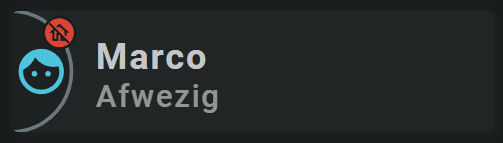
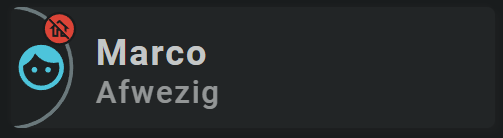
Update Functional Cards and how to create them

diff --git a/docs/design/how-to-create-functional-cards.md b/docs/design/how-to-create-functional-cards.md
@@ -65,17 +65,57 @@ In most cases that means for the card size:
 I made some rough sketches based on the [example 12 card][Swiss Army Knife Example 12]:, but also used some cards I made as the basis to create other variants and cards.
 
 ##:sak-sak-logo: Step 4: Create them
-Look at the examples which functional cards I made:
+Last step is to create the cards you need.
 
-- A slightly modified AirVisual card
-- Four binary cards with alert (variations)
-- A slightly modified Environment card
-- Four power outlet cards (variations again)
-- Two sensor cards without and with history
-- A slightly modified Server Statistics card
-- Last but not least: three switch cards
+As an example, I created a bunch of cards for inspiration and learning.
+
+### Example Functional Cards I made
+
+| Card | Description |
+| ---- | ----------- |
+| [AirVisual Card][functional-card-airvisual1-card] | Two ([\#1][functional-card-airvisual1-card] and [\#2][functional-card-airvisual2-card]) variants for displaying AirVisual data |
+| [Battery Card][functional-card-battery-sensor2-card] | Card showing the battery state, including 24 hour history |
+| [Binary Sensor Card][functional-card-binary-sensor1-card] | Card showing the on/of state of a Binary Sensor |
+| [Binary Sensor Card with Alert][functional-card-binary-sensor-alert1-card] | Same as above, but now four ([\#1][functional-card-binary-sensor-alert1-card], [\#2][functional-card-binary-sensor-alert2-card], [\#3][functional-card-binary-sensor-alert3-card] and [\#4][functional-card-binary-sensor-alert4-card]) variations with an alert icon |
+| [Environment Card][functional-card-environment-card] | Card showing inside environment data |
+| [Header Card][functional-card-header-card] | Card that can display header text above other cards |
+| [Input Boolean Card][functional-card-input-boolean-card] | Card that shows how to display and use the `input_boolean.toggle` service call |
+| [Light Card][functional-card-light-card] | Card that can switch/toggle a Light switch |
+| [Light Card with Slider][functional-card-light-slider-card] | Card that can also control the brightness of a light |
+| [Navigate Card][functional-card-navigate-card] | Navigate to other Lovelace View. Shows how to use the navigate user action |
+| [Person Card][functional-card-person-card] | Card showing the location status of a Person. Also shows the power of some JavaScript |
+| [Power Outlet Card][functional-card-power-outlet1-card] | Four ([\#1][functional-card-power-outlet1-card], [\#2][functional-card-power-outlet2-card], [\#3][functional-card-power-outlet3-card] and [\#4][functional-card-power-outlet4-card]) variations of a card showing both status (on/off) and power usage |
+| [Scene Card][functional-card-scene-card] | Card showing how to call a scene |
+| [Sensor Card][functional-card-sensor1-card] | Two ([\#1][functional-card-sensor1-card] and [\#2][functional-card-sensor2-card]) variations of showing sensor data, without and with 24 hour history |
+| [Server Statistics Card][functional-card-server-statistics-card] | Card showing the main server sensors like CPU, Memory, Disk, etc. |
+| [Switch Card][functional-card-switch1-card] | Three ([\#1][functional-card-switch1-card], [\#2][functional-card-switch2-card] and [\#3][functional-card-switch3-card]) variations of a card controlling a switch |
 
 !!! info "The YAML definition for all cards is included in the examples, so you can copy/use them and learn from them!"
+
+### Overview of Tools used
+
+Most tools are used in the example functional cards. Only 4 are not used.
+
+| Used?            | Tool                                                  | Type        | Description |
+|----------------- | ----------------------------------------------------- | ----------- | ----------- |
+| :material-check: | badge                                                 | basic       | A badge. Not yet Documented! |
+| :material-check: | [circle][swiss-army-knife-basic-tool-circle]          | basic       | A circle |
+| :material-close: | [ellipse][swiss-army-knife-basic-tool-ellipse]        | basic       | An ellipse |
+| :material-check: | [line][swiss-army-knife-basic-tool-line]              | basic       | A vertical, horizontal or oblique line |
+| :material-check: | [rectangle][swiss-army-knife-basic-tool-rectangle]    | basic       | A rectangle with and w/o rounded corners |
+| :material-check: | [rectex][swiss-army-knife-basic-tool-rectex]          | basic       | A more advanced rectangle with independent rounded corners |
+| :material-close: | [regpoly][swiss-army-knife-basic-tool-regpoly]        | basic       | A regular poly using the Schläfli symbol math |
+| :material-check: | [text][swiss-army-knife-basic-tool-text]              | basic       | A text display |
+| :material-close: | [horseshoe][swiss-army-knife-advanced-tool-horseshoe] | advanced    | TBD |
+| :material-check: | [segarc][swiss-army-knife-advanced-tool-segarc]       | advanced    | A segmented arc: shows progress data in an arc |
+| :material-check: | [slider][swiss-army-knife-advanced-tool-slider]       | advanced    | Slider input tool. Used for brightness for example |
+| :material-check: | [switch][swiss-army-knife-advanced-tool-switch]       | advanced    | A basic on/off switch |
+| :material-check: | [usersvg][swiss-army-knife-advanced-tool-usersvg]     | advanced    | For fetching user defined, external SVG files |
+| :material-close: | [area][swiss-army-knife-ha-tool-area]                 | HA specific | Represents an Entity Area |
+| :material-check: | [icon][swiss-army-knife-ha-tool-icon]                 | HA specific | Represents an Entity Icon |
+| :material-check: | [name][swiss-army-knife-ha-tool-name]                 | HA specific | Represents an Entity Name |
+| :material-check: | [state][swiss-army-knife-ha-tool-state]               | HA specific | Represents an Entity State & Unit of Measurement |
+| :material-check: | [bar][swiss-army-knife-ha-tool-bar]                   | HA specific | Represents an simple state history (horizontal or vertical bars)|
 
 <!-- Image references -->
 
@@ -88,6 +128,51 @@ Look at the examples which functional cards I made:
 [Swiss Army Knife Tutorial 02]: ../tutorials/10-step-tutorial-02-intro.md
 [Swiss Army Knife Example 12]: ../examples/example-12.md
 [Swiss Army Knife CSS Classes]: ../basics/styling/classes.md
+
+[swiss-army-knife-basic-tool-circle]: ../tools/circle-tool.md "Swiss Army Knife - Circle Tool"
+[swiss-army-knife-basic-tool-ellipse]: ../tools/ellipse-tool.md "Swiss Army Knife - Ellipse Tool"
+[swiss-army-knife-basic-tool-line]: ../tools/line-tool.md "Swiss Army Knife - Line Tool"
+[swiss-army-knife-basic-tool-rectangle]: ../tools/rectangle-tool.md "Swiss Army Knife - Rectangle Tool"
+[swiss-army-knife-basic-tool-rectex]: ../tools/rectangle-ex-tool.md "Swiss Army Knife - Rectangle Ex Tool"
+[swiss-army-knife-basic-tool-regpoly]: ../tools/regular-poly-tool.md "Swiss Army Knife - Regular Poly Tool"
+[swiss-army-knife-basic-tool-text]: ../tools/text-tool.md "Swiss Army Knife - Text Tool"
+[swiss-army-knife-advanced-tool-horseshoe]: ../tools/horseshoe-tool.md "Swiss Army Knife - Horse shoe Tool"
+[swiss-army-knife-advanced-tool-segarc]: ../tools/segarc-tool.md "Swiss Army Knife - Segmented Arc Tool"
+[swiss-army-knife-advanced-tool-slider]: ../tools/slider-tool.md "Swiss Army Knife - Slider Tool"
+[swiss-army-knife-advanced-tool-switch]: ../tools/switch-tool.md "Swiss Army Knife - Switch Tool"
+[swiss-army-knife-advanced-tool-usersvg]: ../tools/usersvg-tool.md "Swiss Army Knife - User SVG Tool"
+[swiss-army-knife-ha-tool-area]: ../tools/entity-area-tool.md "Swiss Army Knife - Entity Area Tool"
+[swiss-army-knife-ha-tool-icon]: ../tools/entity-icon-tool.md "Swiss Army Knife - Entity Icon Tool"
+[swiss-army-knife-ha-tool-name]: ../tools/entity-name-tool.md "Swiss Army Knife - Entity Name Tool"
+[swiss-army-knife-ha-tool-state]: ../tools/entity-state-tool.md "Swiss Army Knife - Entity State Tool"
+[swiss-army-knife-ha-tool-bar]: ../tools/entity-barchart-tool.md "Swiss Army Knife - Entity History Bar Tool"
+
+[functional-card-airvisual1-card]: functional-card-airvisual1-card.md
+[functional-card-airvisual2-card]: functional-card-airvisual2-card.md
+[functional-card-battery-sensor2-card]: functional-card-battery-sensor2-card.md
+[functional-card-binary-sensor1-card]: functional-card-binary-sensor1-card.md
+[functional-card-binary-sensor-alert1-card]: functional-card-binary-sensor-alert1-card.md
+[functional-card-binary-sensor-alert2-card]: functional-card-binary-sensor-alert2-card.md
+[functional-card-binary-sensor-alert3-card]: functional-card-binary-sensor-alert3-card.md
+[functional-card-binary-sensor-alert4-card]: functional-card-binary-sensor-alert4-card.md
+[functional-card-environment-card]: functional-card-environment-card.md
+[functional-card-header-card]: functional-card-header-card.md
+[functional-card-input-boolean-card]: functional-card-input-boolean-card.md
+[functional-card-light-card]: functional-card-light-card.md
+[functional-card-light-slider-card]: functional-card-light-slider-card.md
+[functional-card-navigate-card]: functional-card-navigate-card.md
+[functional-card-person-card]: functional-card-person-card.md
+[functional-card-power-outlet1-card]: functional-card-power-outlet1-card.md
+[functional-card-power-outlet2-card]: functional-card-power-outlet2-card.md
+[functional-card-power-outlet3-card]: functional-card-power-outlet3-card.md
+[functional-card-power-outlet4-card]: functional-card-power-outlet4-card.md
+[functional-card-scene-card]: functional-card-scene-card.md
+[functional-card-sensor1-card]: functional-card-sensor1-card.md
+[functional-card-sensor2-card]: functional-card-sensor2-card.md
+[functional-card-server-statistics-card]: functional-card-server-statistics-card.md
+[functional-card-switch1-card]: functional-card-switch1-card.md
+[functional-card-switch2-card]: functional-card-switch2-card.md
+[functional-card-switch3-card]: functional-card-switch3-card.md
 
 <!--- External References... --->
 

diff --git a/docs/design/functional-card-person-card.md b/docs/design/functional-card-person-card.md
@@ -22,15 +22,16 @@ This card uses the [Material 3 theme D06, TealBlue][ham3-d06-url]
 !!! info "This card shows you some possibilities to apply JavaScript to the animations section"
     The card itself is not very fancy, but the [use of JavaScript][Swiss Army Knife Javascript Snippets] to fetch the zone's Icon, and to do some color changes is a nice example of the possibilities that JavaScript adds to the tool. It are just a few lines, but very powerful!
     
-| Description| Aspectratio| Target Size |
+| Description| Aspect Ratio| Target Size |
 |-|-|-|
 | A card that shows where a person is, in which zone, or in no zone as away / not home.| 4/1 | Grid with 2 columns |
 
 | SAK Tool| Used for |
 |-|-|
-| Circle | The half circle, as the left part of the circle is cutoff by the card.
+| Icon | Background Icon (only in first screenshot) :smile: |
+| Circle | The half circle, as the left part of the circle is cutoff by the card |
 | Icon | Entity Icon. Animated, state dependent|
-| Icon | Zone Icon, ie where is the person according to the zone configuration|
+| Icon | Zone Icon, ie where is the person according to the zone configuration. Animated, state dependent|
 | Name | Name of Entity|
 | State | State of entity|
 
@@ -68,7 +69,7 @@ In the future, SAK will support card templates, and usage would be (I hope) some
     ```yaml
         - type: 'custom:swiss-army-knife-card'
           entities:
-            - entity: person.zoefdehaas
+            - entity: person.marco
               name: 'Marco'
               icon: mdi:face-man
           # Define aspect ratio
@@ -78,6 +79,25 @@ In the future, SAK will support card templates, and usage would be (I hope) some
             styles:
               card:
             toolsets:
+              # ================================================================
+                # Extra background icon. Just for fun and filling some space
+              - toolset: background-icon
+                position:
+                  cx: 350
+                  cy: 50
+                tools:
+                  # ------------------------------------------------------------
+                  - type: icon
+                    position:
+                      cx: 50
+                      cy: 50
+                      align: center
+                      icon_size: 100
+                    icon: mdi:map-marker-radius-outline
+                    styles:
+                      icon:
+                        fill: var(--theme-sys-elevation-surface-neutral2)
+                        
               # ================================================================
               - toolset: half-circle
                 position:

diff --git a/docs/design/functional-card-switch3-card.md b/docs/design/functional-card-switch3-card.md
@@ -19,9 +19,9 @@ tags:
 
 This card uses the [Material 3 theme D06, TealBlue][ham3-d06-url]
 
-| Description| Aspectratio| Target Size |
+| Description| Aspect Ratio| Target Size |
 |-|-|-|
-| A simple switch card with the "switch" on the left side of the card | 4/1 | Grid with 3 columns |
+| A simple switch card with the "switch" on the left side of the card | 3/1 | Grid with 3 columns |
 
 | SAK Tool| Used for |
 |-|-|
@@ -35,7 +35,7 @@ This card uses the [Material 3 theme D06, TealBlue][ham3-d06-url]
 
 | Part | Description|
 |-|-|
-| Left part of badge | The whole left part functions as a button to toggle the binary sensor entity |
+| Left part of badge | The whole left part functions as a button to toggle the switch |
 | Right part of badge | All tools connected to an entity do show by default the "more-info" dialog once clicked |
 
 ##:sak-sak-logo: Usage (Not Yet Implemented)
@@ -72,9 +72,9 @@ In the future, SAK will support card templates, and usage would be (I hope) some
     ```yaml linenums="1"
         - type: 'custom:swiss-army-knife-card'
           entities:
-            - entity: light.livingroom_light_duo_right_light
+            - entity: switch.fan
               name: 'Fan'
-            - entity: light.livingroom_light_duo_right_light
+            - entity: switch.fan
               secondary_info: last_changed
               format: relative
           # Define aspect ratio
@@ -103,7 +103,7 @@ In the future, SAK will support card templates, and usage would be (I hope) some
                         haptic: light
                         actions:
                           - action: call-service
-                            service: light.toggle
+                            service: switch.toggle
                     animations:
                       - state: 'on'
                         styles:

diff --git a/docs/design/functional-card-switch2-card.md b/docs/design/functional-card-switch2-card.md
@@ -19,7 +19,7 @@ tags:
 
 This card uses the [Material 3 theme D06, TealBlue][ham3-d06-url]
 
-| Description| Aspectratio| Target Size |
+| Description| Aspect Ratio| Target Size |
 |-|-|-|
 | A simple switch card with the "switch" on the left side of the card | 4/1 | Grid with 2 columns |
 
@@ -72,9 +72,9 @@ In the future, SAK will support card templates, and usage would be (I hope) some
     ```yaml linenums="1"
         - type: 'custom:swiss-army-knife-card'
           entities:
-            - entity: light.livingroom_light_duo_right_light
+            - entity: switch.fan
               name: 'Fan'
-            - entity: light.livingroom_light_duo_right_light
+            - entity: switch.fan
               secondary_info: last_changed
               format: relative
           # Define aspect ratio
@@ -103,7 +103,7 @@ In the future, SAK will support card templates, and usage would be (I hope) some
                         haptic: light
                         actions:
                           - action: call-service
-                            service: light.toggle
+                            service: switch.toggle
                     animations:
                       - state: 'on'
                         styles:

diff --git a/docs/design/functional-card-switch1-card.md b/docs/design/functional-card-switch1-card.md
@@ -19,7 +19,7 @@ tags:
 
 This card uses the [Material 3 theme D06, TealBlue][ham3-d06-url]
 
-| Description| Aspectratio| Target Size |
+| Description| Aspect Ratio| Target Size |
 |-|-|-|
 | A simple switch card with the "switch" on the left side of the card | 3/1 | Grid with 2 columns |
 
@@ -73,9 +73,9 @@ In the future, SAK will support card templates, and usage would be (I hope) some
     ```yaml linenums="1"
     - type: 'custom:swiss-army-knife-card'
       entities:
-        - entity: light.livingroom_light_duo_right_light
+        - entity: switch.fan
           name: 'Fan'
-        - entity: light.livingroom_light_duo_right_light
+        - entity: switch.fant
           secondary_info: last_changed
           format: relative
       # Define aspect ratio
@@ -210,7 +210,7 @@ In the future, SAK will support card templates, and usage would be (I hope) some
                     haptic: light
                     actions:
                       - action: call-service
-                        service: light.toggle
+                        service: switch.toggle
 
     ```
 

diff --git a/docs/design/functional-card-airvisual2-card.md b/docs/design/functional-card-airvisual2-card.md
@@ -19,7 +19,7 @@ This card uses the [Material 3 theme D06, TealBlue][ham3-d06-url]
 
 !!! info "This card is (again) based on the [Sensor Card \#2][Swiss Army Knife Functional Card Sensor2]. But instead of an icon it shows an external SVG"
 
-| Description| Aspectratio| Target Size |
+| Description| Aspect Ratio| Target Size |
 |-|-|-|
 | A card that displays data from AirVisual. <br>Both the current data, as a 24 hour history is shown | 3/1 | Grid with 2 columns |
 

diff --git a/docs/design/functional-card-light-card.md b/docs/design/functional-card-light-card.md
@@ -21,7 +21,7 @@ This card uses the [Material 3 theme D06, TealBlue][ham3-d06-url]
 !!! info "This light card and the light card with slider are kept almost identical"
     This means you can mix lights with and without brightness slider, as their size is the same.
     
-| Description| Aspectratio| Target Size |
+| Description| Aspect Ratio| Target Size |
 |-|-|-|
 | A card that can control a light| 4/1 | Grid with 2 columns |
 

diff --git a/docs/design/functional-card-battery-sensor2-card.md b/docs/design/functional-card-battery-sensor2-card.md
@@ -24,7 +24,7 @@ This card uses the [Material 3 theme D06, TealBlue][ham3-d06-url]
 
 !!! info "The second card has name and state reversed, so now the state (38%) is more prominent than the name of the entity"
 
-| Description| Aspectratio| Target Size |
+| Description| Aspect Ratio| Target Size |
 |-|-|-|
 | An example battery sensor level card with segmented arc and history| 4/1 | Grid with 2 columns |
 

diff --git a/docs/design/functional-card-power-outlet4-card.md b/docs/design/functional-card-power-outlet4-card.md
@@ -21,7 +21,7 @@ tags:
 
 This card uses the [Material 3 theme D06, TealBlue][ham3-d06-url]
 
-| Description| Aspectratio| Target Size |
+| Description| Aspect Ratio| Target Size |
 |-|-|-|
 | A card that controls the on/off state of a power outlet, but also displays the power value. <br>Both using a segmented arc and as state.<br>The 24 hour history is shown in the background| 4/1 | Grid with 2 columns |
 

diff --git a/docs/design/functional-card-navigate-card.md b/docs/design/functional-card-navigate-card.md
@@ -18,7 +18,7 @@ This card uses the [Material 3 theme D06, TealBlue][ham3-d06-url]
 
 !!! info "Its a card, but it just demonstrates how to use the `navigate` user action on a tool"
 
-| Description| Aspectratio| Target Size |
+| Description| Aspect Ratio| Target Size |
 |-|-|-|
 | A card that shows an icon and text, and has a `navigate` user action.| 3/1 | Grid with 3 columns |
 

diff --git a/docs/design/functional-card-scene-card.md b/docs/design/functional-card-scene-card.md
@@ -18,7 +18,7 @@ This card uses the [Material 3 theme D06, TealBlue][ham3-d06-url]
 
 !!! info "Its a card, but it just demonstrates how to use the `scene` user action on a tool"
 
-| Description| Aspectratio| Target Size |
+| Description| Aspect Ratio| Target Size |
 |-|-|-|
 | A card that shows an icon and text, and has a `scene` user action.| 3/1 | Grid with 3 columns |
 

diff --git a/docs/design/functional-card-power-outlet1-card.md b/docs/design/functional-card-power-outlet1-card.md
@@ -19,7 +19,7 @@ tags:
 
 This card uses the [Material 3 theme D06, TealBlue][ham3-d06-url]
 
-| Description| Aspectratio| Target Size |
+| Description| Aspect Ratio| Target Size |
 |-|-|-|
 | A card that controls the on/off state of a power outlet, but also displays the power value. <br>Both using a segmented arc and as state.| 3/1 | Grid with 2 columns |
 
